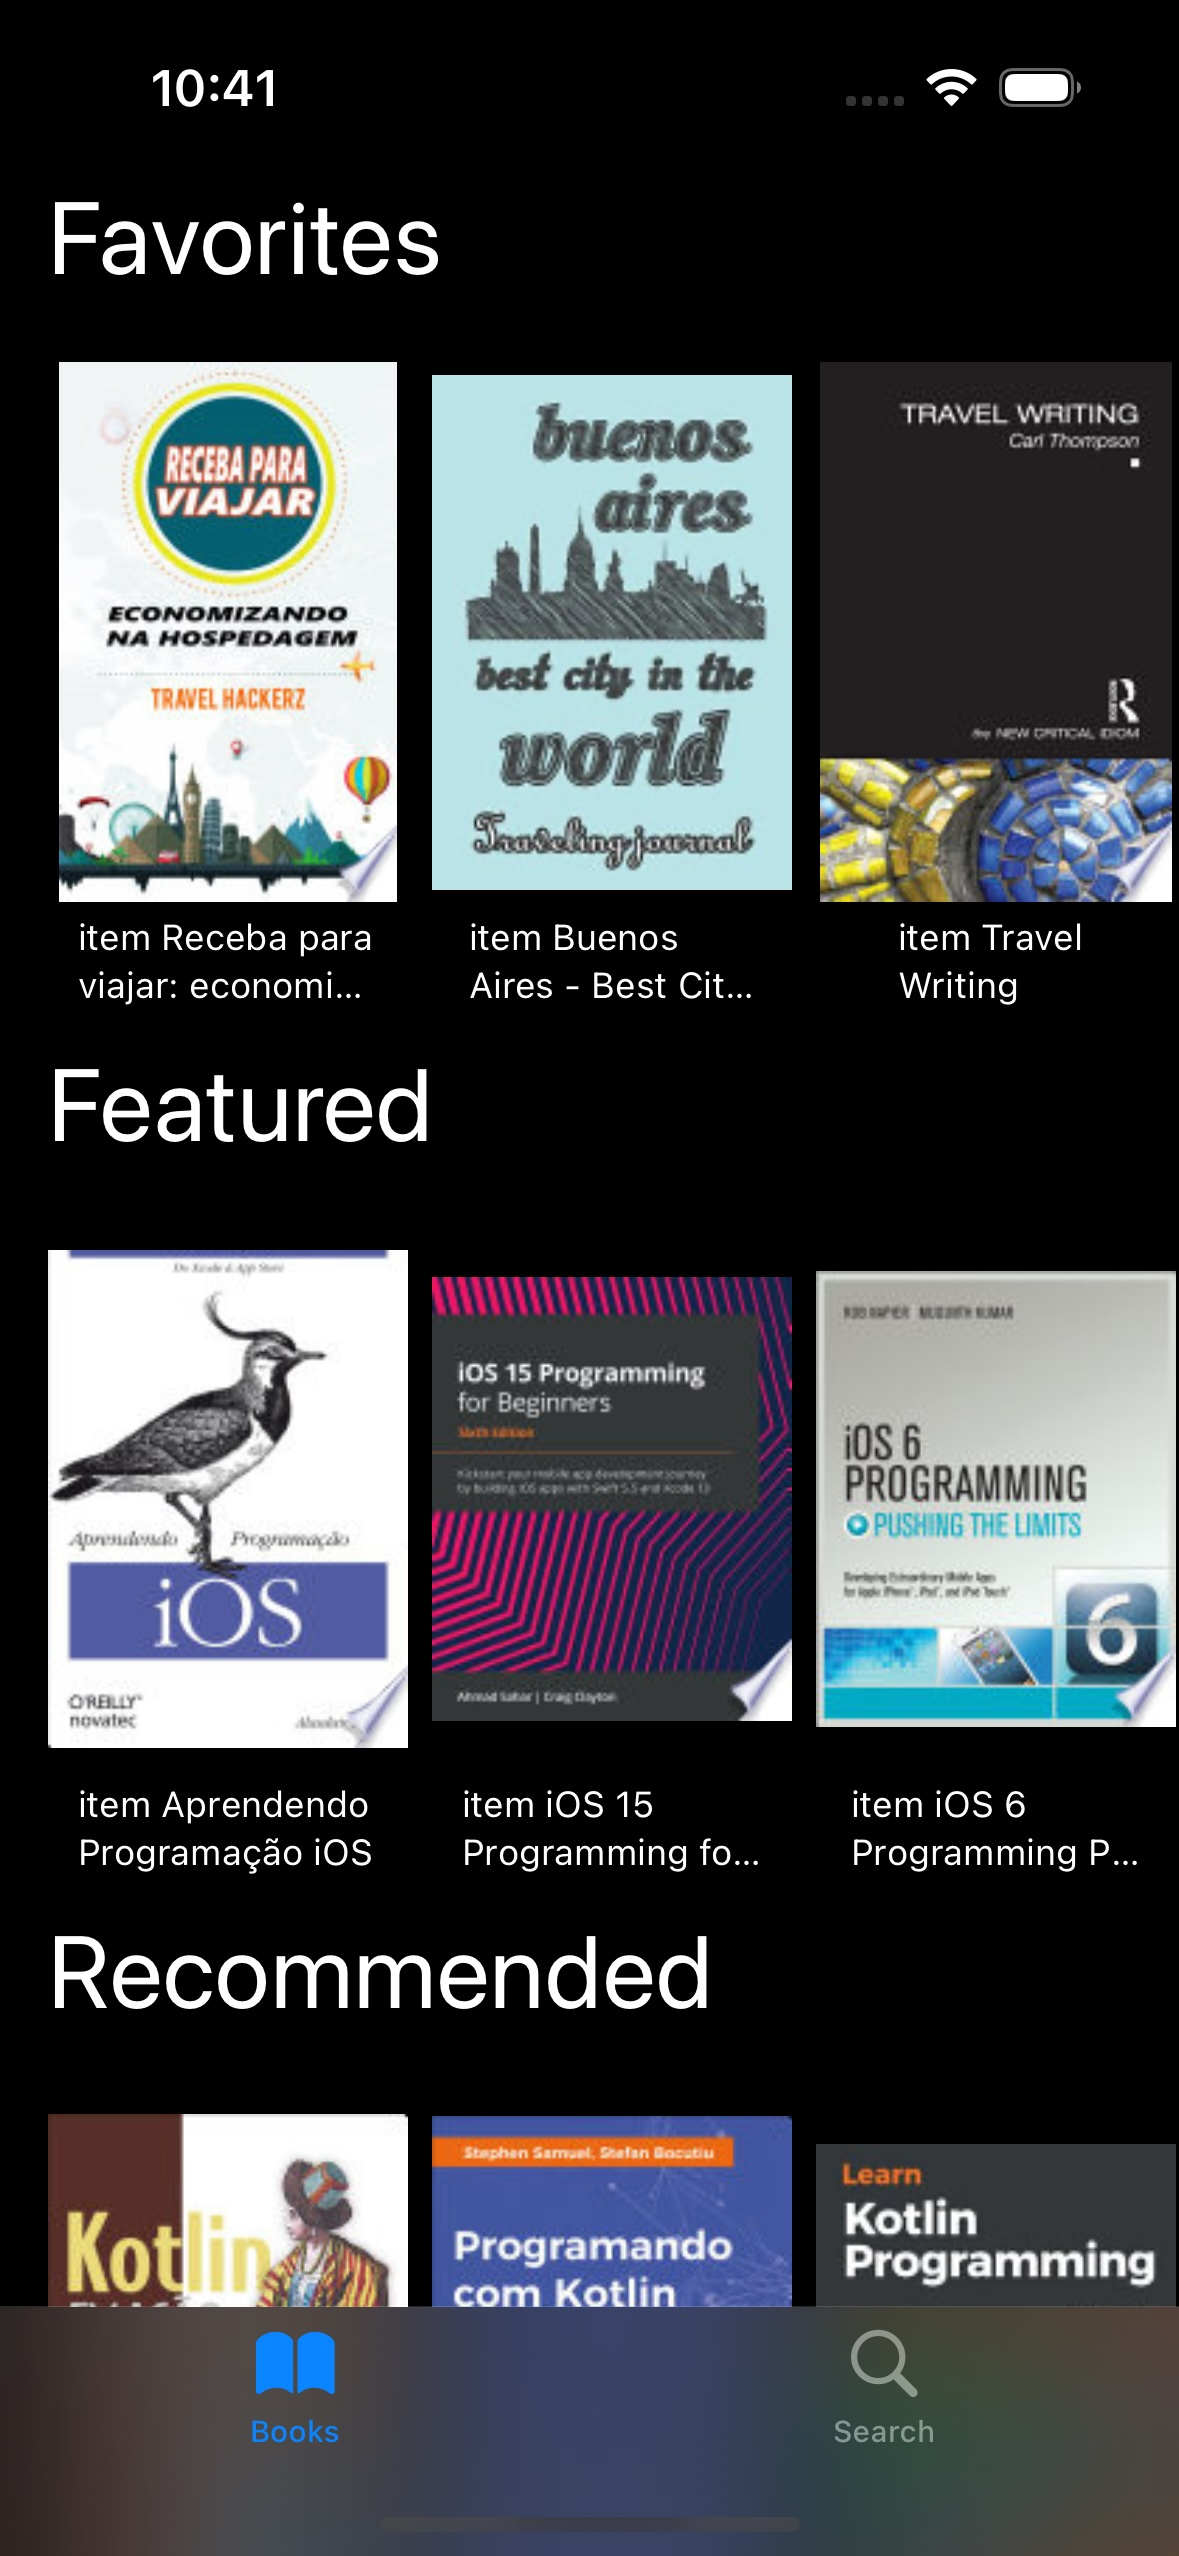
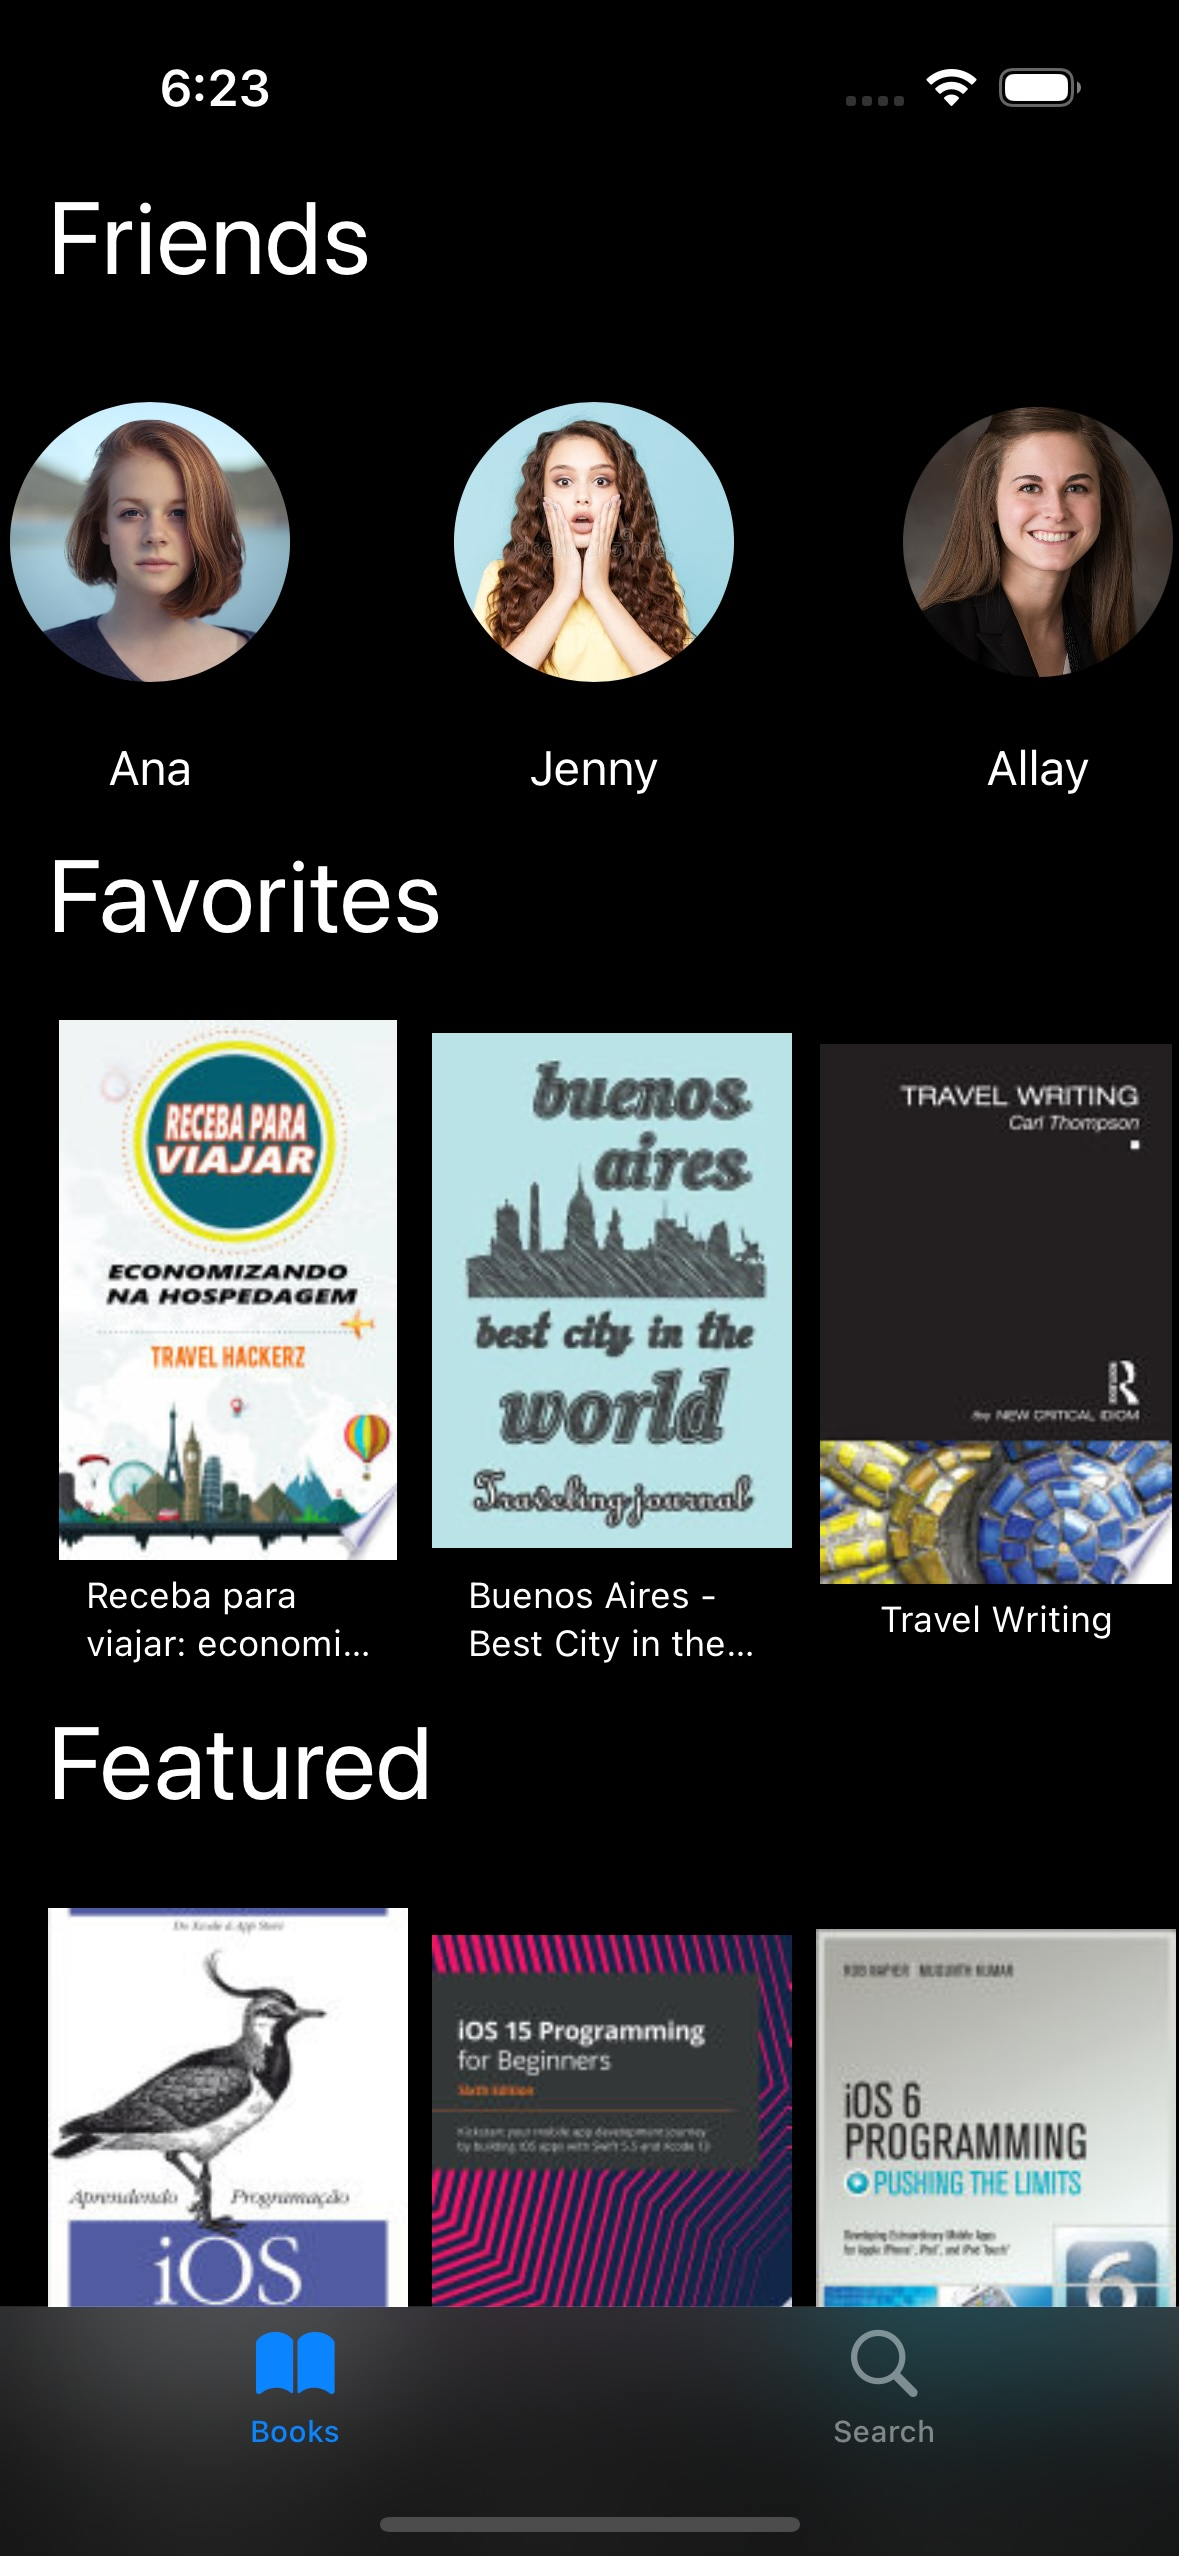
Added friends row on HomeScreen Main tab (iOS app)

diff --git a/iosApp/iosApp/ui/views/FriendsCard.swift b/iosApp/iosApp/ui/views/FriendsCard.swift
@@ -1,0 +1,57 @@
+import SwiftUI
+import shared
+
+struct FriendsCard: View {
+    
+    init(label: String, friends: [Friend]) {
+        self.label = label
+        self.friends = friends
+    }
+    
+    private let label: String
+    private let friends: [Friend]
+    
+    var body: some View {
+        HStack {
+            UIPageHeader(label: label)
+        }.padding(.horizontal, 16)
+            .frame(maxWidth: .infinity, alignment: .leading)
+        ScrollView(.horizontal) {
+            LazyHStack {
+                ForEach(friends, id: \.self) { friend in
+                    VStack() {
+                        
+                        AsyncImage(url: URL(string: friend.avatarURL)) { phase in
+                            switch phase {
+                            case .success(let image):
+                                image.resizable()
+                                    .aspectRatio(contentMode: .fit)
+                                    .clipShape(Circle())
+                                    .frame(width: 140, height: 120)
+                            @unknown default:
+                                EmptyView()
+                            }
+                        }
+                        Text(friend.name)
+                            .frame(width: 100)
+                            .font(.system(size: 16))
+                            .lineLimit(/*@START_MENU_TOKEN@*/2/*@END_MENU_TOKEN@*/)
+                    }
+                }
+            }
+           
+        }
+    }
+}
+
+struct FriendsCard_Previews: PreviewProvider {
+    static var previews: some View {
+        let friend = Friend(
+            id: "123-mockedid",
+            name: "User Name",
+            avatarURL: "httpsL//mock-url"
+        )
+        FriendsCard(label: "Friends", friends: [friend])
+    }
+}
+

diff --git a/iosApp/iosApp/ui/screens/home/HomeViewModel.swift b/iosApp/iosApp/ui/screens/home/HomeViewModel.swift
@@ -3,12 +3,14 @@ import shared
 
 @Observable
 class HomeViewModel : IHomeViewModel {
-    
-    init(searchBookByName: ISearchBookByNameUC) {
+        
+    init(searchBookByName: ISearchBookByNameUC, getFriendsByUserIdUC: IGetFriendsByUserIdUC) {
         self.searchBookByName = searchBookByName
+        self.getFriendsByUserIdUC = getFriendsByUserIdUC
         self.featuredBooks = []
         self.recommendedBooks = []
         self.favoritesBooks = []
+        self.friends = []
         self.searchedBooks = []
         self.exception = nil
         self.isLoading = false
@@ -17,12 +19,14 @@ class HomeViewModel : IHomeViewModel {
     var featuredBooks: [Book]
     var recommendedBooks: [Book]
     var favoritesBooks: [Book]
+    var friends: [Friend]
     var searchedBooks: [Book]
     
     var exception: Any?
     var isLoading: Bool
     
     let searchBookByName: ISearchBookByNameUC
+    let getFriendsByUserIdUC: IGetFriendsByUserIdUC
     
     func loadFavoritesBooks(name: String) {
         isLoading = true
@@ -62,6 +66,20 @@ class HomeViewModel : IHomeViewModel {
             } else {
                 self.exception = nil
                 self.recommendedBooks = books ?? []
+            }
+        }
+    }
+    
+    func loadFriends() {
+        isLoading = true
+        getFriendsByUserIdUC.execute(userId: "123MockedUserId") { friends, error in
+            self.isLoading = false
+            if (error != nil) {
+                self.friends = []
+                self.exception = error
+            } else {
+                self.exception = nil
+                self.friends = friends ?? []
             }
         }
     }

diff --git a/iosApp/iosApp/ui/screens/home/tabs/MainTab.swift b/iosApp/iosApp/ui/screens/home/tabs/MainTab.swift
@@ -12,7 +12,8 @@ struct MainTab: View {
     private let navigateTo: (Route) -> Void
     
     @State private var viewModel = HomeViewModel(
-        searchBookByName: AppDIKoin().searchBookByNameUC
+        searchBookByName: AppDIKoin().searchBookByNameUC,
+        getFriendsByUserIdUC: AppDIKoin().getFriendsByUserIdUC
     )
     
     var body: some View {
@@ -27,6 +28,10 @@ struct MainTab: View {
         
         
         ScrollView {
+            if (!viewModel.friends.isEmpty) {
+                FriendsCard(label: "Friends", friends: viewModel.friends)
+            }
+            
             if (!viewModel.recommendedBooks.isEmpty) {
                 BooksCard(label: "Favorites", books: viewModel.favoritesBooks)
             }
@@ -46,6 +51,7 @@ struct MainTab: View {
         viewModel.loadFavoritesBooks(name: "Travel")
         viewModel.loadFeatureBooks(name: "iOS")
         viewModel.loadRecommendedBooks(name: "Kotlin")
+        viewModel.loadFriends()
     }
 }
 

diff --git a/iosApp/iosApp/ui/screens/home/tabs/SearchTab.swift b/iosApp/iosApp/ui/screens/home/tabs/SearchTab.swift
@@ -12,7 +12,8 @@ struct SearchTab: View {
     
     @State private var searchQuery: String = ""
     @State private var viewModel = HomeViewModel(
-        searchBookByName: AppDIKoin().searchBookByNameUC
+        searchBookByName: AppDIKoin().searchBookByNameUC,
+        getFriendsByUserIdUC: AppDIKoin().getFriendsByUserIdUC
     )
     
     let columns = [
